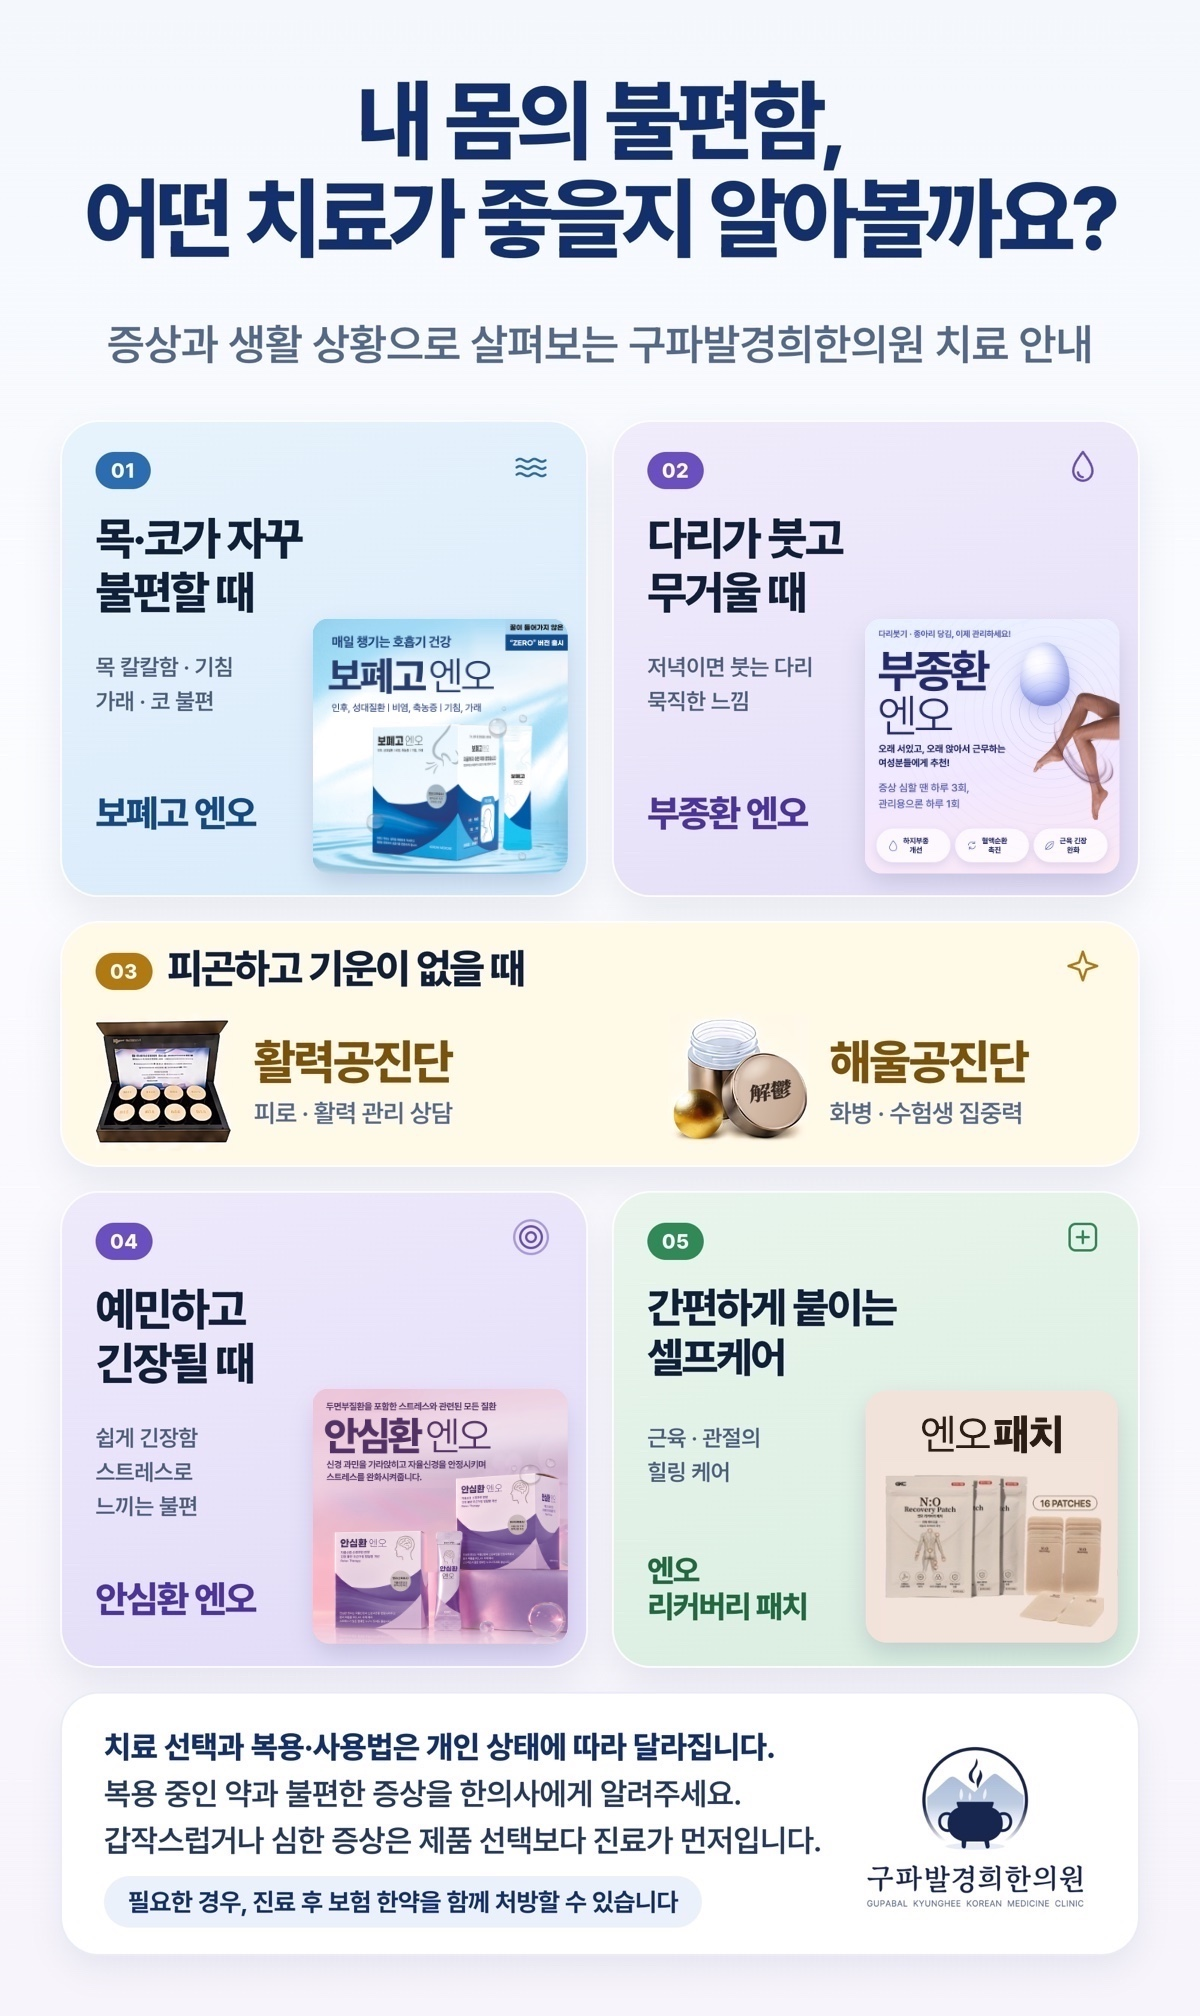
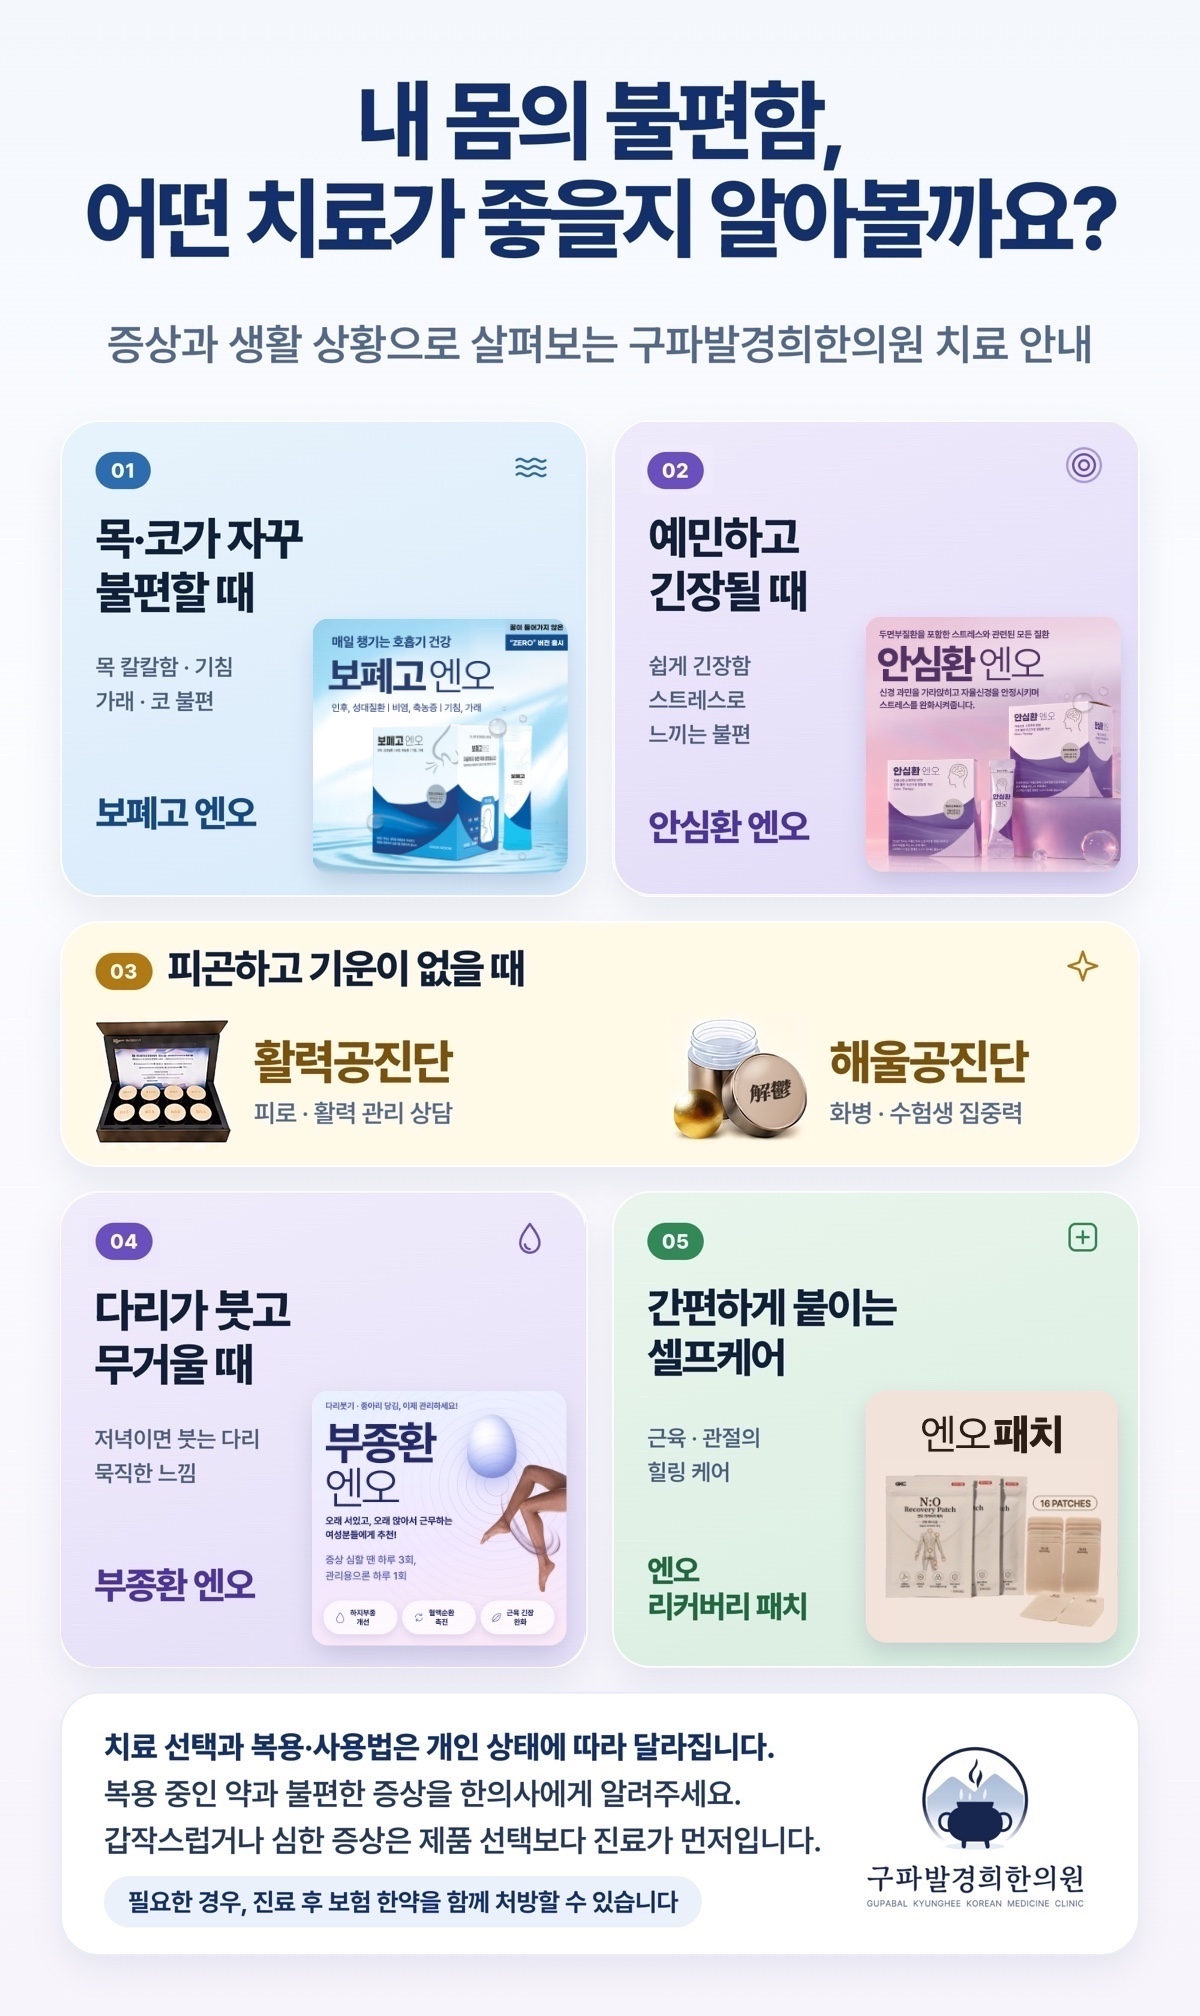
홈 팝업에서 안심환·부종환 카드 위치 교체 (클릭 영역 포함)

diff --git a/index.html b/index.html
@@ -181,7 +181,7 @@
 </section>
 <div class="popup" id="homePopup" role="dialog" aria-modal="true" aria-label="치료 안내" hidden>
   <div class="pu-panel" tabindex="-1">
-    <div class="pu-img"><img src="assets/img/popup-guide.jpg" alt="내 몸의 불편함, 어떤 치료가 좋을지 알아볼까요? 보폐고 엔오, 부종환 엔오, 활력·해울공진단, 안심환 엔오, 엔오 리커버리 패치 안내" width="1200" height="2016" decoding="async"><a class="pu-hot" href="bopae.html" aria-label="보폐고 엔오 보기" style="left:5.042%;top:20.900%;width:43.866%;height:23.500%"></a><a class="pu-hot" href="bujong.html" aria-label="부종환 엔오 보기" style="left:51.092%;top:20.900%;width:43.866%;height:23.500%"></a><a class="pu-hot" href="gongjindan.html" aria-label="활력·해울공진단 보기" style="left:5.042%;top:45.650%;width:89.916%;height:12.200%"></a><a class="pu-hot" href="anshim.html" aria-label="안심환 엔오 보기" style="left:5.042%;top:59.150%;width:43.866%;height:23.450%"></a><a class="pu-hot" href="patch.html" aria-label="엔오 리커버리 패치 보기" style="left:51.092%;top:59.150%;width:43.866%;height:23.450%"></a></div>
+    <div class="pu-img"><img src="assets/img/popup-guide.jpg" alt="내 몸의 불편함, 어떤 치료가 좋을지 알아볼까요? 보폐고 엔오, 부종환 엔오, 활력·해울공진단, 안심환 엔오, 엔오 리커버리 패치 안내" width="1200" height="2016" decoding="async"><a class="pu-hot" href="bopae.html" aria-label="보폐고 엔오 보기" style="left:5.042%;top:20.900%;width:43.866%;height:23.500%"></a><a class="pu-hot" href="anshim.html" aria-label="안심환 엔오 보기" style="left:51.092%;top:20.900%;width:43.866%;height:23.500%"></a><a class="pu-hot" href="gongjindan.html" aria-label="활력·해울공진단 보기" style="left:5.042%;top:45.650%;width:89.916%;height:12.200%"></a><a class="pu-hot" href="bujong.html" aria-label="부종환 엔오 보기" style="left:5.042%;top:59.150%;width:43.866%;height:23.450%"></a><a class="pu-hot" href="patch.html" aria-label="엔오 리커버리 패치 보기" style="left:51.092%;top:59.150%;width:43.866%;height:23.450%"></a></div>
     <div class="pu-bar"><button type="button" class="pu-today">오늘 하루 보지 않기</button><button type="button" class="pu-close">닫기</button></div>
   </div>
 </div>

diff --git a/build.py b/build.py
@@ -531,9 +531,9 @@ HOME_FAQ = [F["hours"], F["where"], F["booking"], F["change"], F["first_visit"],
 # 홈 첫 화면 팝업: 안내 이미지(1190×2000 기준 좌표)에 박스별 클릭 영역을 겹쳐 각 페이지로 이동
 POPUP_BOXES = [
     ("보폐고 엔오 보기", "bopae.html", 60, 418, 582, 888),
-    ("부종환 엔오 보기", "bujong.html", 608, 418, 1130, 888),
+    ("안심환 엔오 보기", "anshim.html", 608, 418, 1130, 888),
     ("활력·해울공진단 보기", "gongjindan.html", 60, 913, 1130, 1157),
-    ("안심환 엔오 보기", "anshim.html", 60, 1183, 582, 1652),
+    ("부종환 엔오 보기", "bujong.html", 60, 1183, 582, 1652),
     ("엔오 리커버리 패치 보기", "patch.html", 608, 1183, 1130, 1652),
 ]
 
